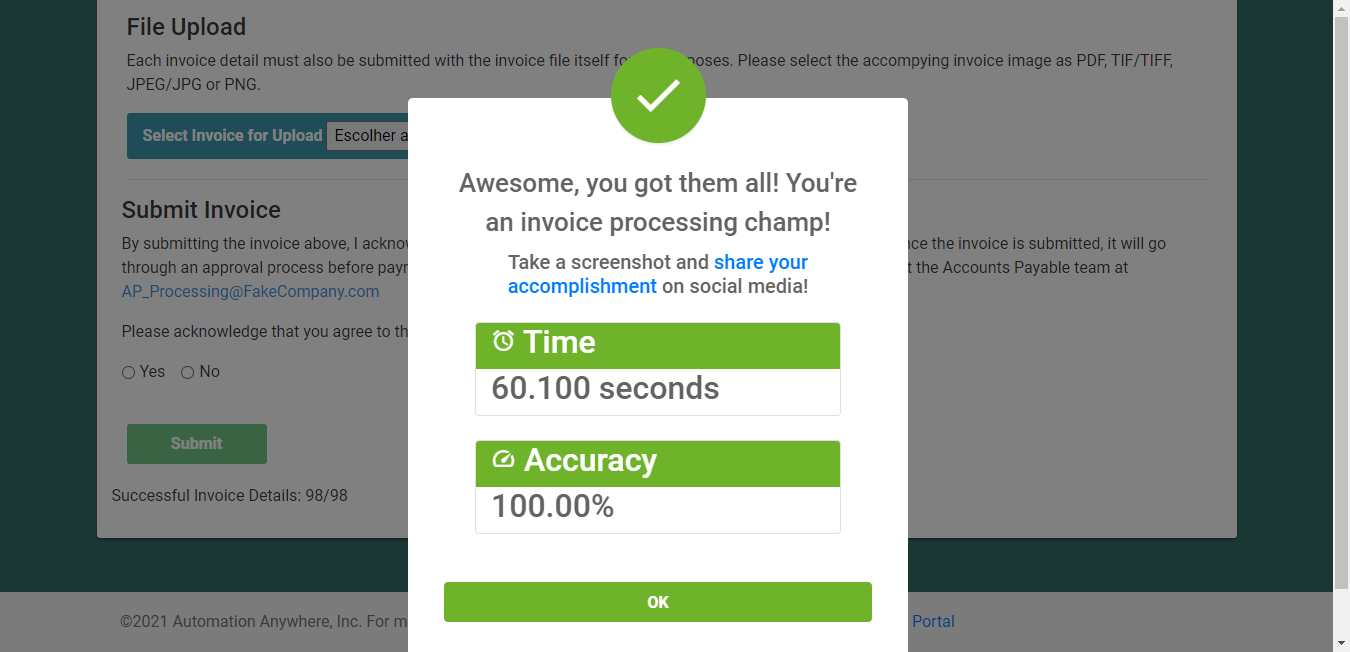
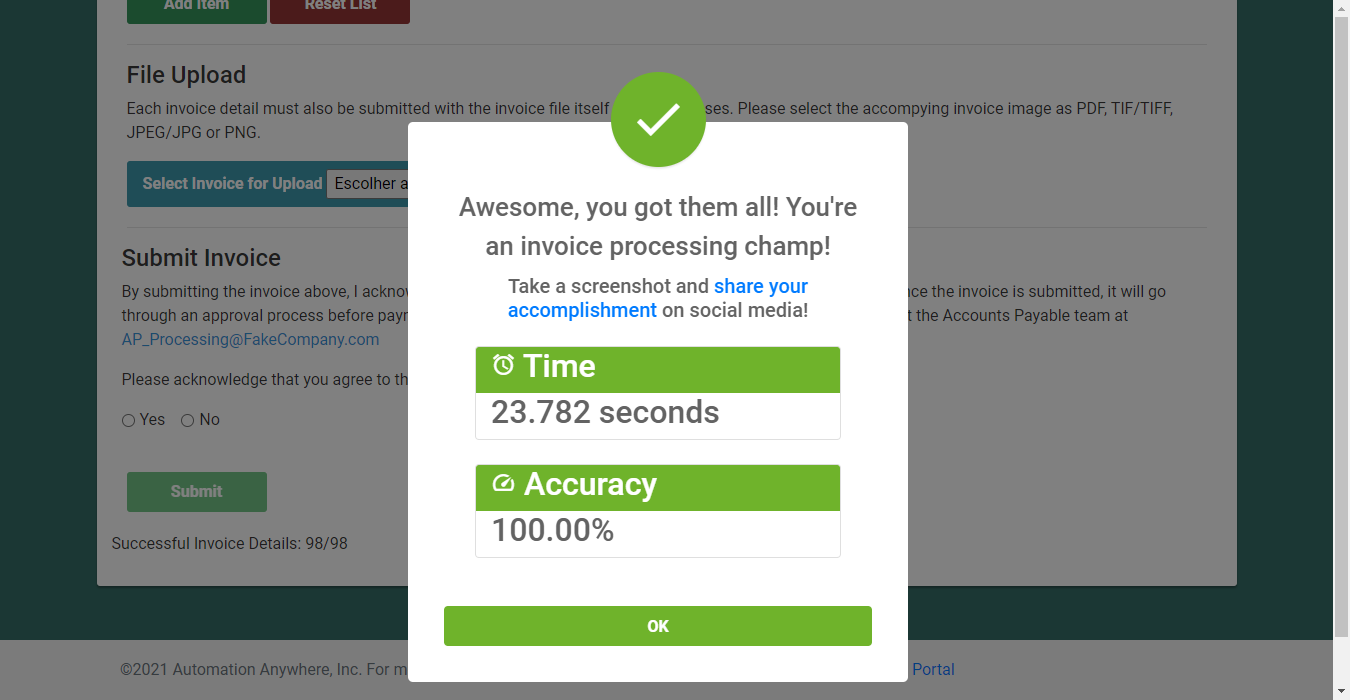
Adding the optimized version for the Week 4

diff --git a/Week4/Solution-Python.py b/Week4/Solution-Python.py
@@ -82,50 +82,51 @@ dir = os.path.dirname(__file__)
 
 rpa.init()
 
-rpa.url('https://developer.automationanywhere.com/challenges/automationanywherelabs-invoiceentry.html')
-
-#Preparing the loop for each image file
+#Extracting all invoices data
+invoiceData = []
 os.chdir(dir)
 for imageName in glob.glob("*.tiff"):
     #Building the file name and extracting its information
-    try:
-        filename = os.path.join(dir, imageName)
-        output = get_text_from_image(filename)
-    except:
-        output = ""
+    filename = os.path.join(dir, imageName)
+    output = get_text_from_image(filename)
 
-    #Getting the invoice data
-    invoiceNumber = get_invoice_number(output).strip()
-    invoiceDate = get_invoice_date(output).strip()
-    invoiceTotal = get_invoice_total(output).strip()
-    invoiceQuantities = get_invoice_quantities(output)
-    invoiceDescriptions = get_invoice_descriptions(output)
-    invoiceTotalsPerItem = get_invoice_totals_per_item(output)
+    #Getting the invoice data and adding to the list
+    invoiceData.append({'invoiceNumber': get_invoice_number(output).strip(),
+                        'invoiceDate' : get_invoice_date(output).strip(),
+                        'invoiceTotal' : get_invoice_total(output).strip(),
+                        'invoiceQuantities' : get_invoice_quantities(output),
+                        'invoiceDescriptions' : get_invoice_descriptions(output),
+                        'invoiceTotalsPerItem' : get_invoice_totals_per_item(output),
+                        'filename': filename})
 
+#Acessing challenge website
+rpa.url('https://developer.automationanywhere.com/challenges/automationanywherelabs-invoiceentry.html')
+
+rpa.wait(2)
+#Looping through each invoice
+for invoice in invoiceData:
     #Filling input fields information
-    rpa.dom('document.getElementById("invoiceNumber").value = ' + "'" + invoiceNumber + "'")
-    rpa.dom('document.getElementById("invoiceDate").value = ' + "'" + invoiceDate + "'")
-    rpa.dom('document.getElementById("invoiceTotal").value = ' + "'" + invoiceTotal + "'")
+    rpa.dom('document.getElementById("invoiceNumber").value = ' + "'" + invoice['invoiceNumber'] + "'")
+    rpa.dom('document.getElementById("invoiceDate").value = ' + "'" + invoice['invoiceDate'] + "'")
+    rpa.dom('document.getElementById("invoiceTotal").value = ' + "'" + invoice['invoiceTotal'] + "'")
 
     #Adding the amount of needed rows for processing
-    for i in range(len(invoiceQuantities)-1):
-         rpa.click('//*[@id="myDIV"]/div/button[1]')
+    for i in range(len(invoice['invoiceQuantities'])-1):
+         rpa.dom('document.evaluate("//*[@id=\'myDIV\']/div/button[1]",document,null, XPathResult.FIRST_ORDERED_NODE_TYPE, null).singleNodeValue.click()')
 
     #Filing the invoice details in a table
-    for i in range(len(invoiceQuantities)):
-        rpa.dom('document.getElementById("quantity_row_'+ str(i+1) +'").value = ' + "'" + invoiceQuantities[i] + "'")
-        rpa.dom('document.getElementById("description_row_'+ str(i+1) +'").value = ' + "'" + invoiceDescriptions[i] + "'")
-        rpa.dom('document.getElementById("price_row_'+ str(i+1) +'").value = ' + "'" + invoiceTotalsPerItem[i] + "'")
+    for i in range(len(invoice['invoiceQuantities'])):
+        rpa.dom('document.getElementById("quantity_row_'+ str(i+1) +'").value = ' + "'" + invoice['invoiceQuantities'][i] + "'")
+        rpa.dom('document.getElementById("description_row_'+ str(i+1) +'").value = ' + "'" + invoice['invoiceDescriptions'][i] + "'")
+        rpa.dom('document.getElementById("price_row_'+ str(i+1) +'").value = ' + "'" + invoice['invoiceTotalsPerItem'][i] + "'")
 
-    #Uploading the file and agreeing with terms
-    rpa.upload('#fileupload',filename)
-    rpa.click('agreeToTermsYes')
 
-    rpa.click('submit_button')
+    #Uploading the file, agreeing with terms and submit input
+    rpa.upload('#fileupload',invoice['filename'])
+    rpa.dom("document.getElementById('agreeToTermsYes').click()")
+    rpa.dom("document.getElementById('submit_button').click()")
 
 #Waiting for the ouput image and printing it
 rpa.wait(2)
-
 rpa.snap('page', '\\Week4\\Result-Standard.png')
-
 rpa.close()
